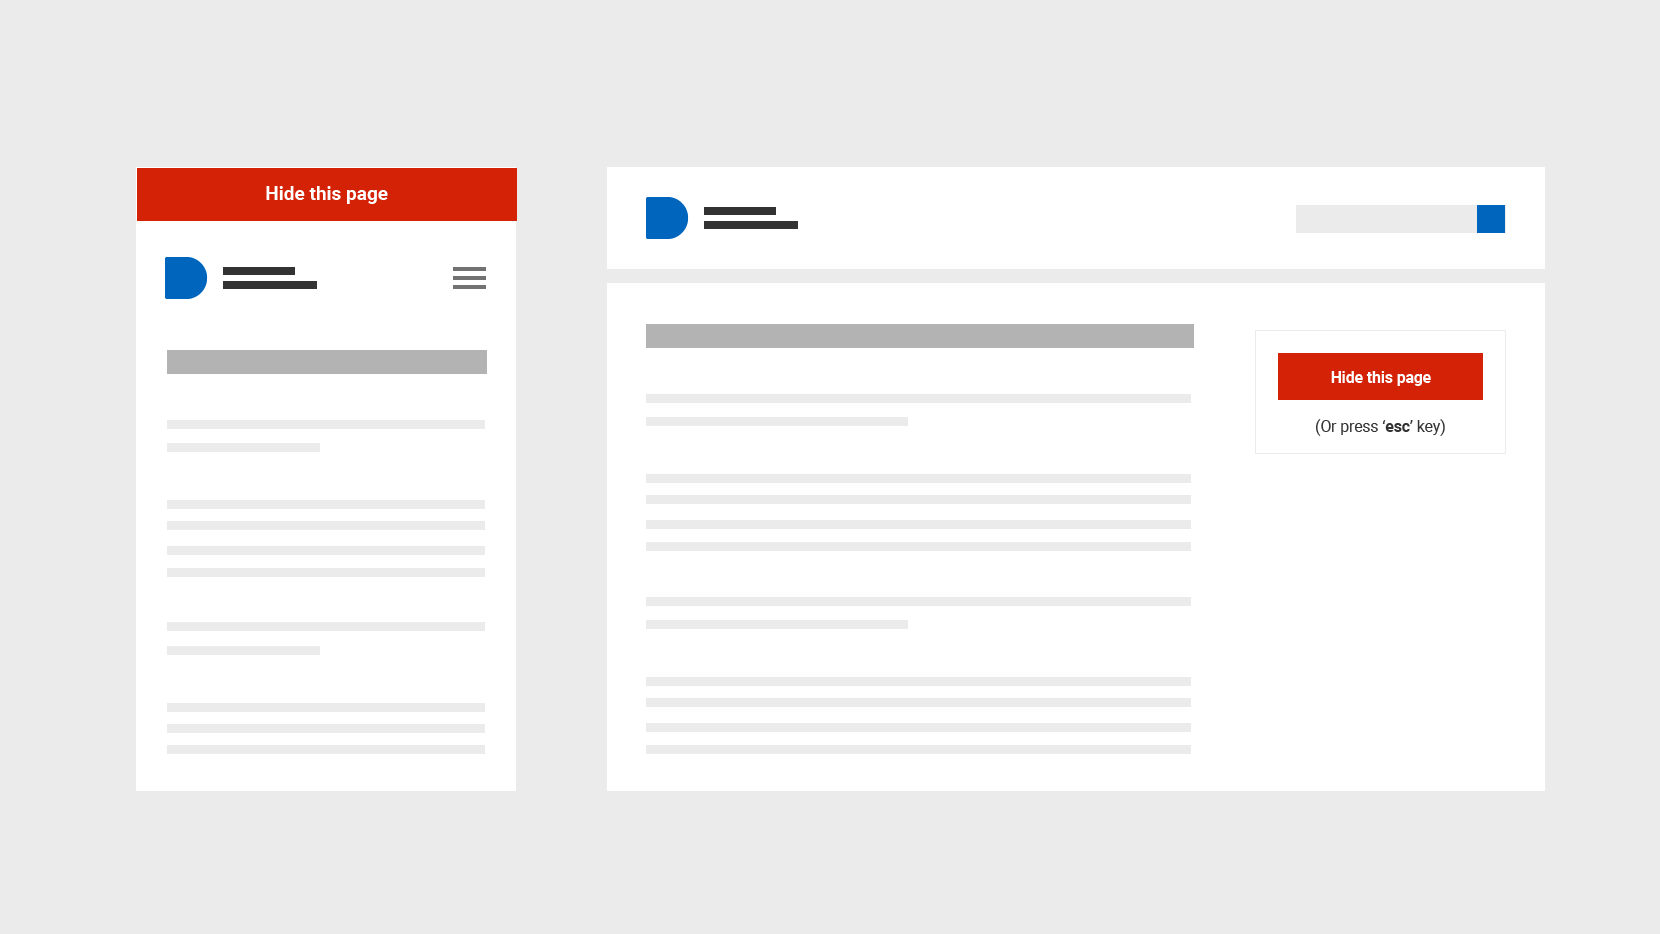
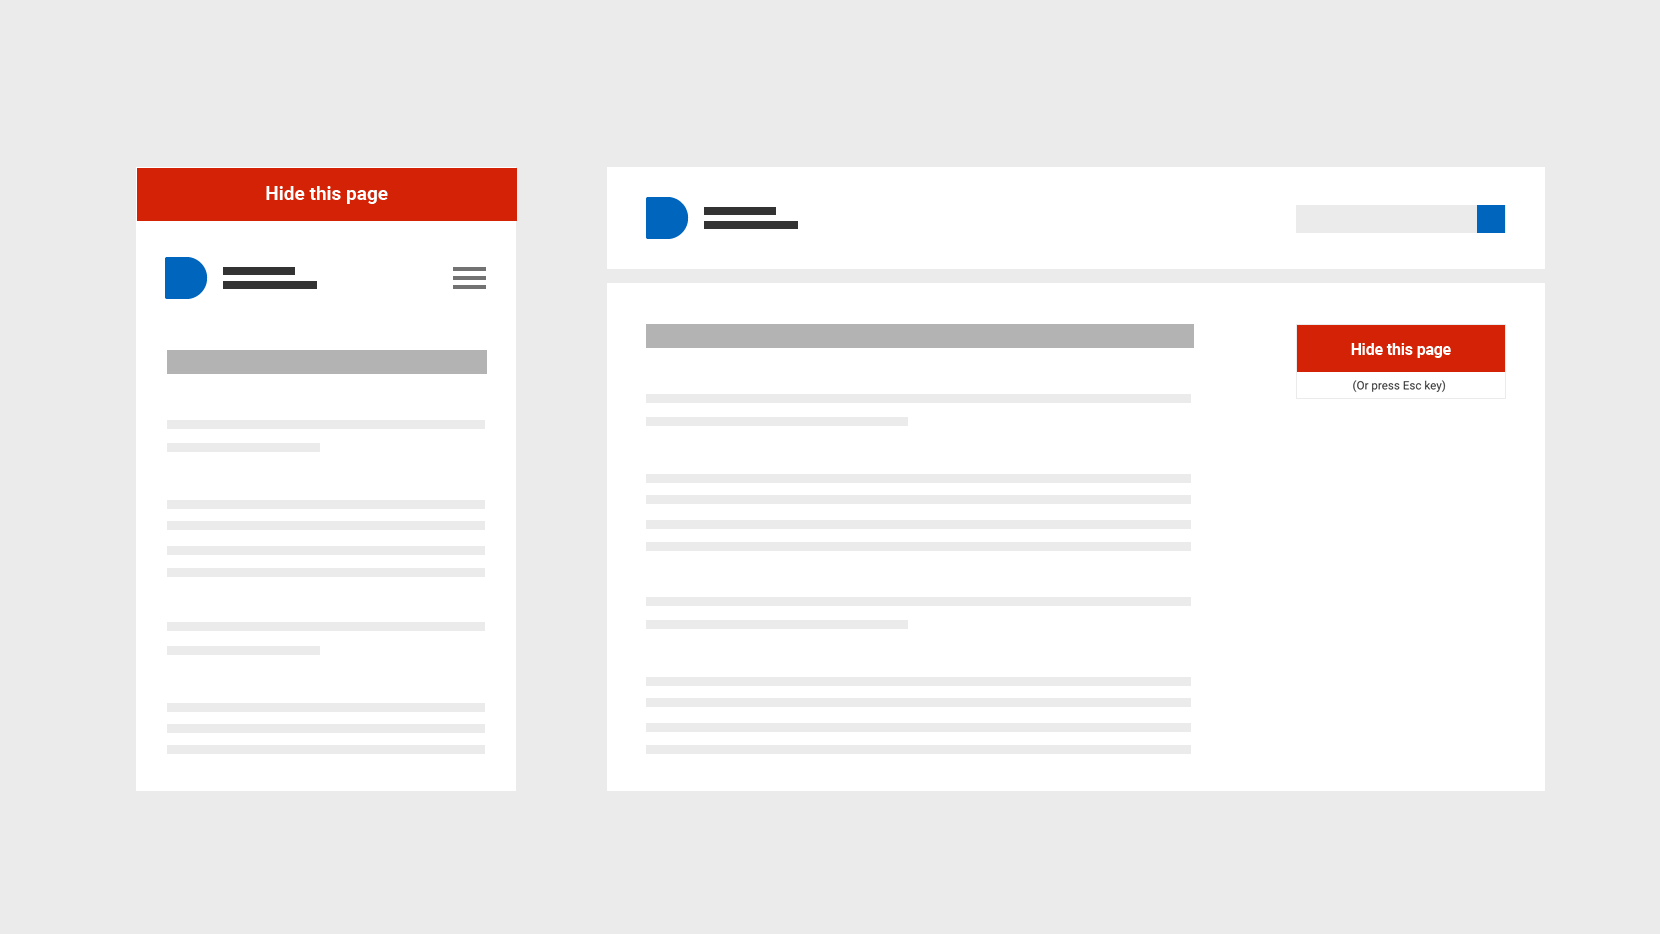
* correction to some basic layout definitions * change “hide this page” example illustration * change error messages to use new classname

Changed region(s): [[0.7681, 0.3415, 0.9217, 0.4657]]

diff --git a/assets/_scss/base/_pl-layouts.scss b/assets/_scss/base/_pl-layouts.scss
@@ -5,20 +5,22 @@
 .#{$pl-prefix}layout {
     &--pl-component {
         > .#{$pl-prefix}layout {
-            &__header {
-                float: left;
-                @include colwidth(8);
-            }
+            @include media-query(medium) {
+                &__header {
+                    float: left;
+                    @include colwidth(8);
+                }
 
-            &__content {
-                float: left;
-                @include colwidth(7);
-            }
+                &__content {
+                    float: left;
+                    @include colwidth(7);
+                }
 
-            &__sidebar {
-                clear: left;
-                float: left;
-                @include colwidth(3);
+                &__sidebar {
+                    clear: left;
+                    float: left;
+                    @include colwidth(3);
+                }
             }
         }
     }

diff --git a/components/error-message/example.main.md b/components/error-message/example.main.md
@@ -8,6 +8,6 @@ index: 0
 <div class="ds_question  ds_question--error" id="error-id-three">
     <label class="ds_label" for="textarea">Please provide more detail</label>
     <p class="ds_hint-text" id="hint-text-more-detail">Do not include personal or financial information, like your National Insurance number or credit card details.</p>
-    <p class="ds_question__message" data-form="error-more-detail">This field is required</p>
+    <p class="ds_question__error-message" data-form="error-more-detail">This field is required</p>
     <textarea rows="5" class="ds_input  ds_input--error" id="textarea" aria-invalid="true" aria-required="true" aria-describedby="hint-text-more-detail" data-form="textarea-more-detail"></textarea>
 </div>

diff --git a/components/radio-buttons/example.error.md b/components/radio-buttons/example.error.md
@@ -8,7 +8,7 @@ type: example
         <fieldset aria-invalid="true">
             <legend>Did this resolve your issue?</legend>
             <p class="ds_hint-text">Hint text</p>
-            <p class="ds_question__message">This field is required</p>
+            <p class="ds_question__error-message">This field is required</p>
 
             <div class="ds_field-group">
                 <div class="ds_radio">

diff --git a/components/checkboxes/example.error.md b/components/checkboxes/example.error.md
@@ -8,7 +8,7 @@ type: example
         <fieldset>
             <legend>What topics are you interested in?</legend>
             <p class="ds_hint-text">Select an option</p>
-            <p class="ds_question__message">This field is required</p>
+            <p class="ds_question__error-message">This field is required</p>
 
             <div class="ds_field-group">
                 <div class="ds_checkbox">
